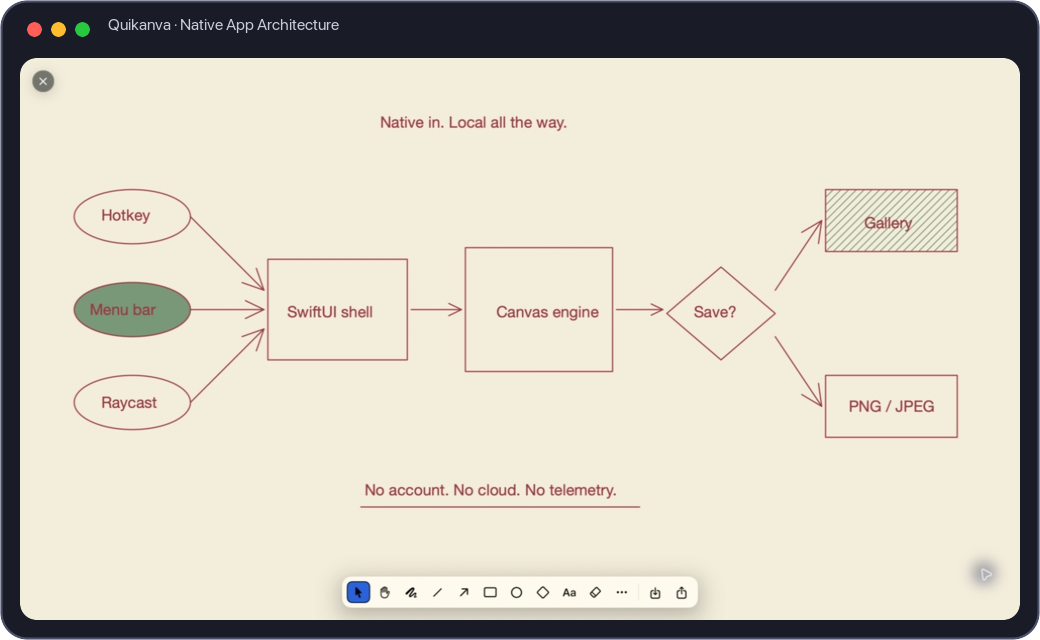
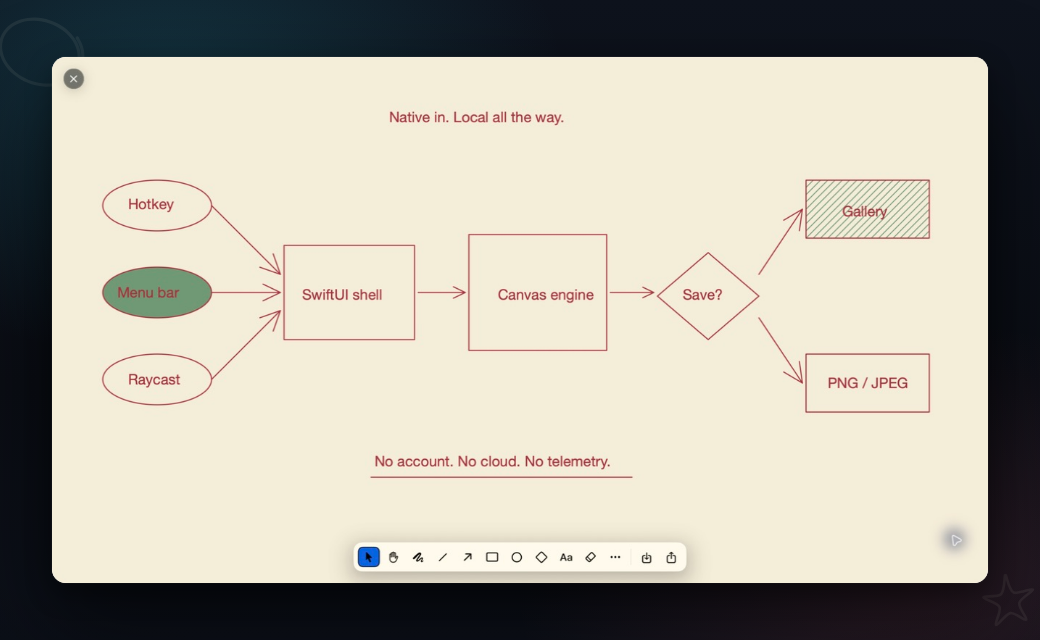
fix: update image descriptions in README and user guide for clarity; remove unused screenshot assets

Changed region(s): [[0.0, 0.0, 1.0, 1.0], [0.3385, 0.7188, 0.5846, 0.7812], [0.3692, 0.1562, 0.5538, 0.2188]]

diff --git a/README.md b/README.md
@@ -30,7 +30,7 @@ Quikanva is a free, open-source visual scratchpad for Mac. Press <kbd>⌘</kbd><
 
 | A real launch workflow | A native, local architecture map |
 |---|---|
-| ![A product launch flow drawn in Quikanva, shown in a macOS window](docs/assets/product/macos-product-launch-flow.png) | ![A native app architecture diagram drawn in Quikanva, shown in a macOS window](docs/assets/product/macos-native-app-architecture.png) |
+| ![A product launch flow drawn in Quikanva, shown on its floating canvas](docs/assets/product/macos-product-launch-flow.png) | ![A native app architecture diagram drawn in Quikanva, shown on its floating canvas](docs/assets/product/macos-native-app-architecture.png) |
 
 Both examples were drawn and captured in Quikanva. They use its shipping canvas tools rather than mock UI.
 

diff --git a/docs/USER_GUIDE.md b/docs/USER_GUIDE.md
@@ -24,9 +24,9 @@ Start with structure, then annotate:
 
 The examples below were made with that sequence:
 
-![A product launch workflow made in Quikanva, shown in a macOS window](assets/product/macos-product-launch-flow.png)
+![A product launch workflow made in Quikanva, shown on its floating canvas](assets/product/macos-product-launch-flow.png)
 
-![A native app architecture map made in Quikanva, shown in a macOS window](assets/product/macos-native-app-architecture.png)
+![A native app architecture map made in Quikanva, shown on its floating canvas](assets/product/macos-native-app-architecture.png)
 
 ## Draw and navigate
 
